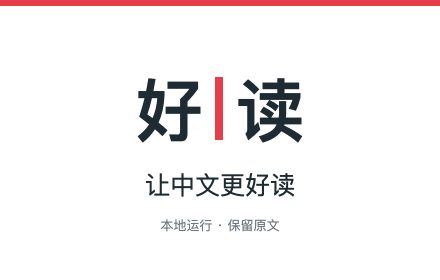
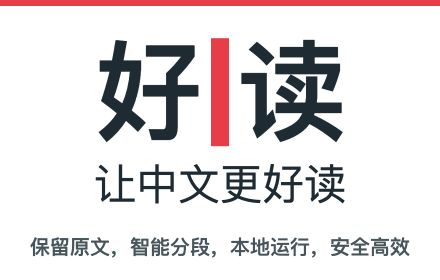
a

diff --git a/release/assets/store-reading-preview.html b/release/assets/store-reading-preview.html
@@ -9,8 +9,9 @@
     * { box-sizing: border-box; }
     body { margin: 0; background: #f7f8fa; color: #192b33; font-family: "PingFang SC", "Microsoft YaHei", sans-serif; }
     header { height: 84px; padding: 24px 64px; display: flex; align-items: center; gap: 24px; background: white; border-bottom: 1px solid #e8ebee; }
-    .brand { display: flex; align-items: center; gap: 5px; font-size: 29px; font-weight: 600; }
-    .brand i { display: block; width: 4px; height: 29px; background: #ff1744; }
+    .brand { white-space: nowrap; font-size: 29px; font-weight: 600; }
+    /* Keep the logo geometry identical to the site's .brand-divider. */
+    .brand i { display: inline-block; width: calc(1em / 6); height: 1em; margin: 0 0.08em; background: #ff1744; vertical-align: -0.15em; }
     main { width: 960px; margin: 46px auto; }
     h1 { margin: 0 0 12px; font-size: 36px; font-weight: 600; }
     .intro { margin: 0 0 30px; color: #687880; font-size: 18px; }

diff --git a/release/chrome-web-store.md b/release/chrome-web-store.md
@@ -65,6 +65,7 @@
 
 - 128 × 128 图标：`icons/on-128.png`，已包含在 ZIP。
 - 440 × 280 小宣传图：[store-promo-440x280.jpg](assets/store-promo-440x280.jpg)，对应可编辑源文件 [store-promo-440x280.svg](assets/store-promo-440x280.svg)。
+- 1400 × 560 横幅宣传图（Marquee）：[store-marquee-1400x560.jpg](assets/store-marquee-1400x560.jpg)，RGB JPEG，无透明通道；对应可编辑源文件 [store-marquee-1400x560.svg](assets/store-marquee-1400x560.svg)。
 - 商店截图：[store-screenshot-1280x800.jpg](assets/store-screenshot-1280x800.jpg)，1280 × 800、RGB JPEG，无透明通道。截自阅读示例页，正文中的分隔线来自实际运行的插件，可上传至 Screenshots。
 - 官网预览图：[store-preview-1280x800.jpg](assets/store-preview-1280x800.jpg)，1280 × 800。按照 2026-09-29 用户选定的截图内容，保留标题、本地神经网络简介、两个按钮及第一张纸张示例卡片。
   - 图片说明：官网阅读辅助预览。该图展示官网的静态演示，不声称是此时运行扩展模型得到的结果。
